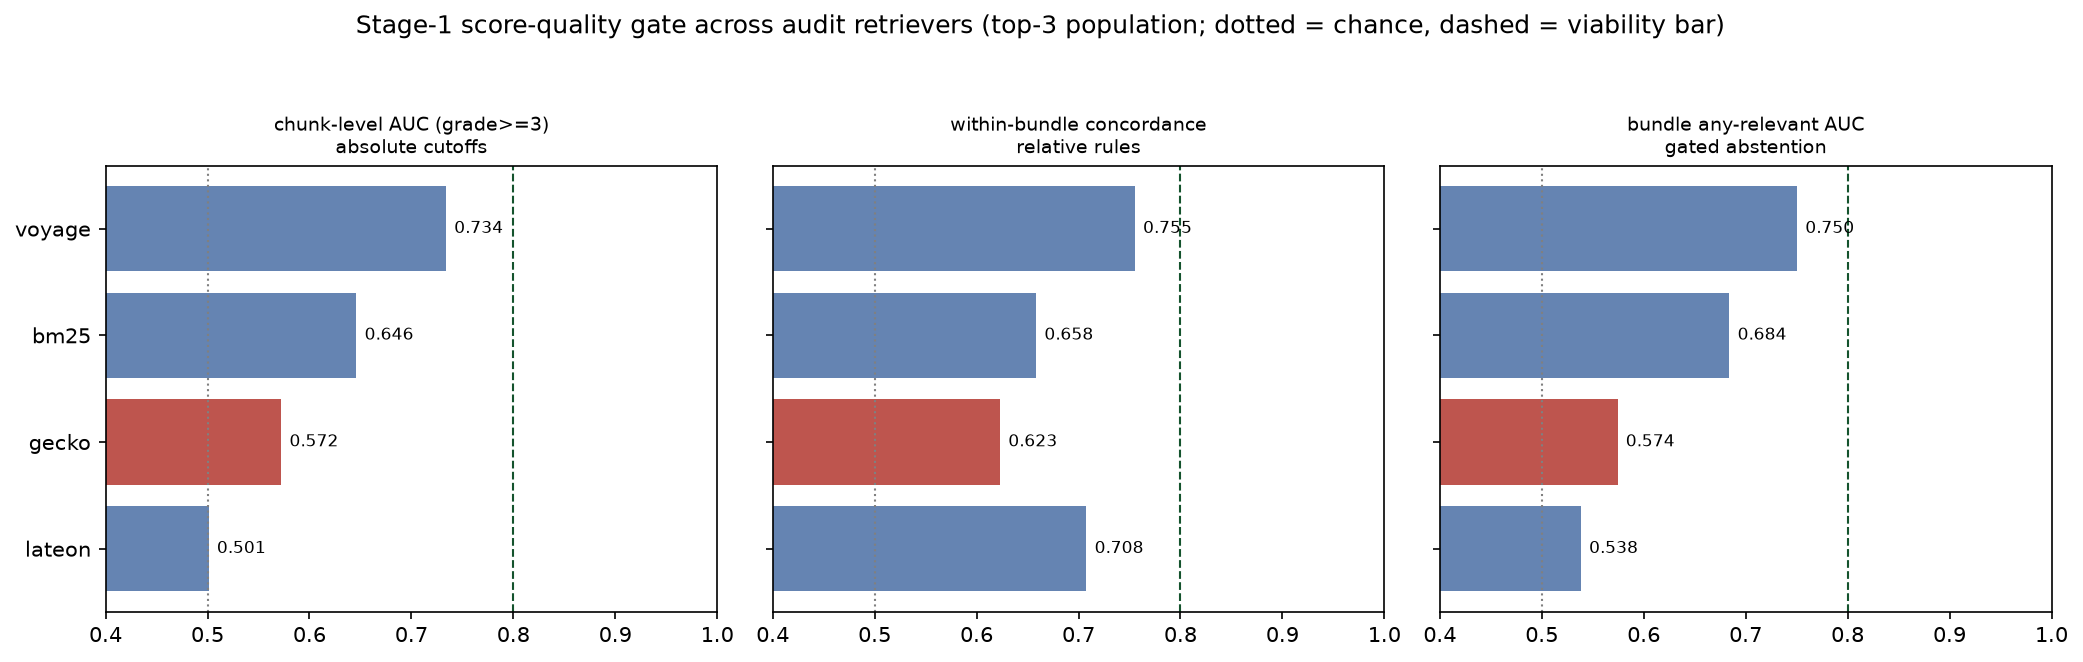
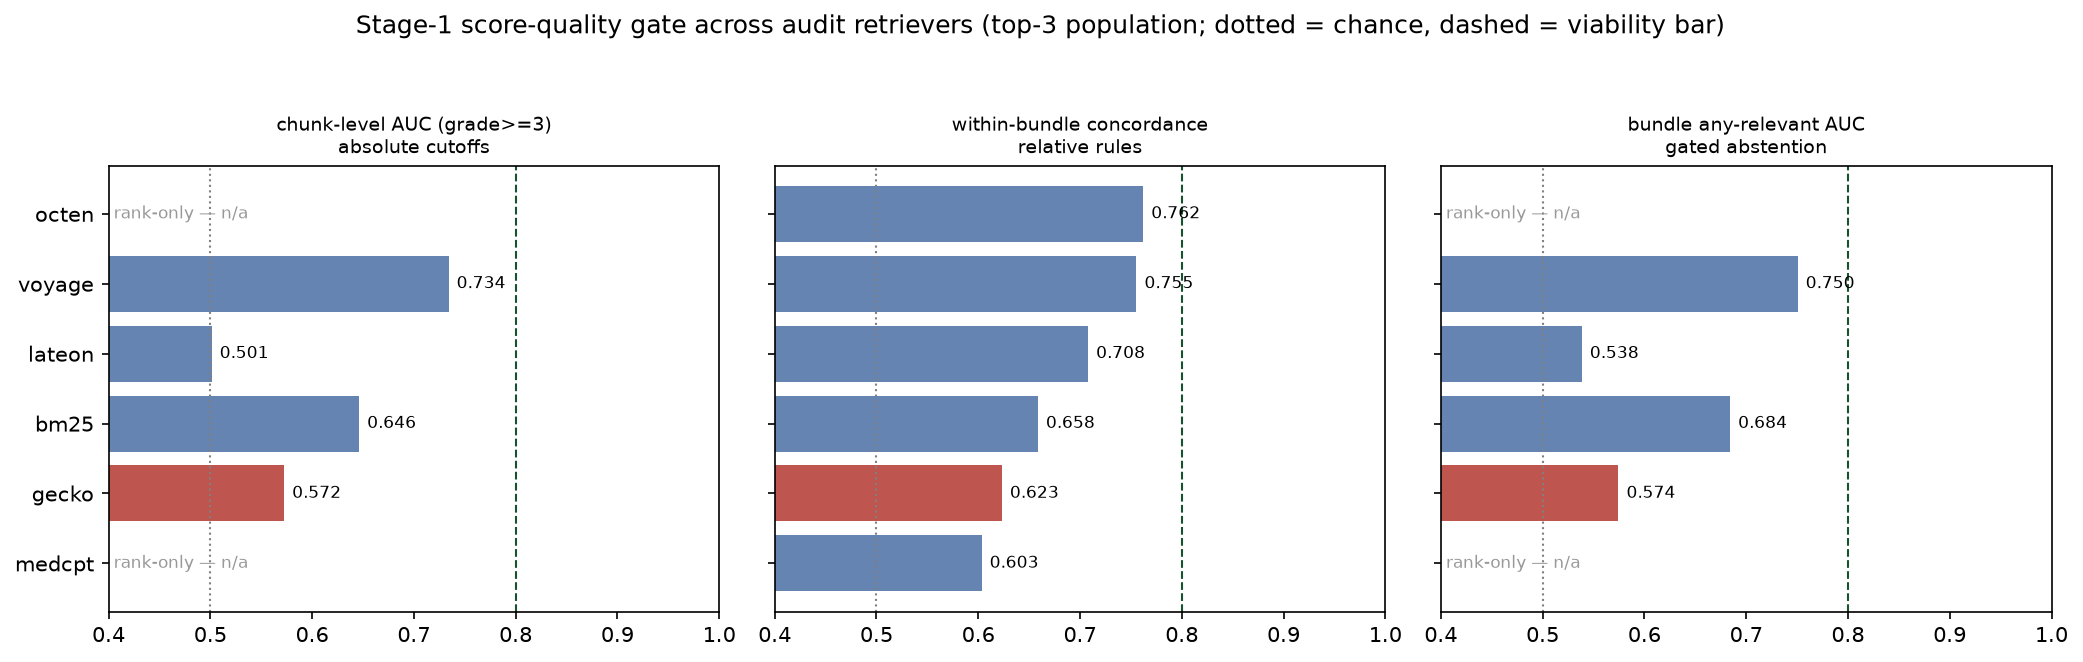
results(r1): all six retrievers in the gate — concordance is rank-computable, so medcpt + octen join
Within a bundle, rank order is score order, so the concordance statistic
needs no published scores: octen (0.762, best of all six) and medcpt
(0.603, worst) now appear; their two pooled score AUCs stay n/a. octen's
0.762 is the only value touching the 0.80 bar. medcpt is the inverse of
lateon — weak ranking AND weak concordance — reinforcing that score
quality and ranking quality are independent axes.

diff --git a/configs/config-v0.2.0/reports/r1-threshold/r1-threshold-negative-result-20260612.html b/configs/config-v0.2.0/reports/r1-threshold/r1-threshold-negative-result-20260612.html
@@ -227,11 +227,13 @@ logic must be calibrated on the deployment platform, not the cluster</em>.
 
 <h2>6. Is thresholding dead in general, or just for Gecko?</h2>
 <p>
-The Stage-1 gate costs nothing to run for the other audit retrievers — their
-top-20 scores are in <code>rankings.parquet</code> against the same judgments
-(medcpt and octen published rank-only data, so their score gates are not
-computable; Stage 2 is not computable for any of them, as no end-to-end runs
-used their retrievals).
+The Stage-1 gate costs nothing to run for the other five audit retrievers —
+their top-20 rankings are in <code>rankings.parquet</code> against the same
+judgments. medcpt and octen published rank-only data, so the two pooled
+score statistics are not computable for them; the within-bundle concordance
+survives, because inside a bundle rank order <em>is</em> score order. Stage 2
+is not computable for any of them, as no end-to-end runs used their
+retrievals.
 </p>
 <figure>
   <img src="fig_retriever_gate_comparison.png"
@@ -243,37 +245,46 @@ used their retrievals).
   <tr><th>Retriever</th><th class="num">chunk AUC ≥3</th>
       <th class="num">concordance</th><th class="num">bundle AUC</th>
       <th class="num">P@3</th><th>Note</th></tr>
+  <tr><td>octen-8B</td><td class="num">—</td><td class="num">0.762</td>
+      <td class="num">—</td><td class="num">0.804</td>
+      <td>cluster-only; rank-only data (pooled stats n/a)</td></tr>
   <tr><td>voyage-4-large</td><td class="num">0.734</td><td class="num">0.755</td>
       <td class="num">0.750</td><td class="num">0.867</td>
       <td>API-only reference ceiling</td></tr>
+  <tr><td>lateon</td><td class="num">0.501</td><td class="num">0.708</td>
+      <td class="num">0.538</td><td class="num">0.738</td>
+      <td>scores incomparable across queries, decent within-bundle</td></tr>
   <tr><td>bm25</td><td class="num">0.646</td><td class="num">0.658</td>
       <td class="num">0.684</td><td class="num">0.417</td>
       <td>on-device feasible (SQLite FTS5, R2a)</td></tr>
   <tr><td><strong>gecko (deployed)</strong></td><td class="num fail">0.572</td>
       <td class="num fail">0.623</td><td class="num fail">0.574</td>
-      <td class="num">0.477</td><td>worst score quality of the four</td></tr>
-  <tr><td>lateon</td><td class="num">0.501</td><td class="num">0.708</td>
-      <td class="num">0.538</td><td class="num">0.738</td>
-      <td>scores incomparable across queries, decent within-bundle</td></tr>
+      <td class="num">0.477</td><td>second-worst concordance, worst pooled scores</td></tr>
+  <tr><td>medcpt</td><td class="num">—</td><td class="num">0.603</td>
+      <td class="num">—</td><td class="num">0.335</td>
+      <td>rank-only data (pooled stats n/a)</td></tr>
 </table>
 <p>Three readings:</p>
 <ul>
-  <li><strong>The failure is Gecko-specific in degree, but no retriever passes.</strong>
-      Even voyage — the quality ceiling — sits at 0.73–0.76 on all three
-      statistics, below the 0.80 viability bar. Score-based filtering would be
-      <em>marginally</em> workable on voyage-grade scores and is hopeless on
-      Gecko’s; nothing tested clears the bar comfortably.</li>
+  <li><strong>No retriever passes the bar.</strong> Even voyage — the API-only
+      quality ceiling — sits at 0.73–0.76 on all three score statistics, below
+      the 0.80 viability bar, and octen (the strongest cluster-feasible ranker,
+      concordance 0.762) is the only value that touches it. Score-based
+      filtering is at best marginal even with the best retrievers tested, and
+      hopeless on Gecko’s scores. Thresholding should not be assumed to revive
+      automatically under R2.</li>
   <li><strong>Score quality is a separate axis from ranking quality.</strong>
-      lateon ranks well (P@3 = 0.738) yet its pooled chunk AUC is 0.501 — its
-      score magnitudes carry zero cross-query meaning, while its within-bundle
-      ordering (0.708) beats Gecko’s. A bake-off that only checked P@k would
-      never see this. This validates measuring both gate statistics per R2
-      candidate.</li>
-  <li><strong>BM25’s scores beat Gecko’s on every statistic</strong> — notably
-      bundle-level junk detection (0.684 vs 0.574) — while being deployable
-      on-device. This strengthens the R2a hybrid case: lexical scores add not
-      just complementary recall but more meaningful confidence signal than the
-      embedding provides.</li>
+      lateon ranks well (P@3 = 0.738, HR@3 = 0.971) yet its pooled chunk AUC is
+      0.501 — its score <em>magnitudes</em> carry zero cross-query meaning,
+      while its within-bundle ordering (0.708) is strong. medcpt is the inverse
+      cautionary case: weak ranking (P@3 = 0.335) and the weakest concordance
+      (0.603) of all six. A bake-off that only checked P@k would see none of
+      this — which is exactly why both gate statistics belong in the R2 screen.</li>
+  <li><strong>BM25’s scores beat Gecko’s on every computable statistic</strong>
+      — notably bundle-level junk detection (0.684 vs 0.574) — while being
+      deployable on-device. This strengthens the R2a hybrid case: lexical scores
+      add not just complementary recall but a more meaningful confidence signal
+      than the embedding provides.</li>
 </ul>
 
 <h2>7. Decision</h2>

diff --git a/retrieval_eval/compare_retriever_gates.py b/retrieval_eval/compare_retriever_gates.py
@@ -108,11 +108,12 @@ def main():
     skipped = {}
     for retriever in sorted(rk["retriever"].unique()):
         sub = rk[rk["retriever"] == retriever]
-        if sub["score"].isna().all():
-            skipped[retriever] = ("rank-only in rankings.parquet (no scores "
-                                  "published) — score gate not computable")
-            print(f"{retriever:8s}  SKIPPED: rank-only, no scores", flush=True)
-            continue
+        rank_only = sub["score"].isna().all()
+        if rank_only:
+            # Within-bundle rank order IS score order, so the concordance
+            # statistic survives without published scores; the two pooled
+            # (cross-query) AUCs genuinely need magnitudes and do not.
+            sub = sub.assign(score=-sub["rank"].astype(float))
         rows, missing = [], 0
         for r in sub.itertuples():
             g = grade.get((r.query_id, r.chunk_id))
@@ -122,14 +123,23 @@ def main():
             rows.append({"query_id": r.query_id, "rank": int(r.rank),
                          "score": float(r.score), "grade": int(g)})
         stats = gate_stats(rows)
+        if rank_only:
+            # Cross-query statistics computed from negated ranks are not score
+            # statistics — null them; only the within-bundle concordance and
+            # the base rates survive.
+            stats["chunk_auc_grade3"] = None
+            stats["chunk_auc_grade5"] = None
+            stats["bundle_any_relevant_auc_top1"] = None
+            stats["rank_only"] = True
         stats["n_unjudged_top20"] = missing
         stats["note"] = RETRIEVER_NOTES.get(retriever, "")
         results[retriever] = stats
-        print(f"{retriever:8s}  AUC3={stats['chunk_auc_grade3']:.3f}  "
-              f"conc={stats['within_bundle_concordance']:.3f}  "
-              f"bundleAUC={stats['bundle_any_relevant_auc_top1']}  "
-              f"P@3={stats['p_at_3']:.3f}  HR@3={stats['hr_at_3']:.3f}",
-              flush=True)
+        fmt = lambda v: f"{v:.3f}" if v is not None else "  —  "
+        print(f"{retriever:8s}  AUC3={fmt(stats['chunk_auc_grade3'])}  "
+              f"conc={fmt(stats['within_bundle_concordance'])}  "
+              f"bundleAUC={fmt(stats['bundle_any_relevant_auc_top1'])}  "
+              f"P@3={stats['p_at_3']:.3f}  HR@3={stats['hr_at_3']:.3f}"
+              + ("  [rank-only]" if rank_only else ""), flush=True)
 
     out = {
         "created_at_utc": datetime.now(timezone.utc).strftime("%Y-%m-%dT%H:%M:%SZ"),
@@ -148,7 +158,7 @@ def main():
     matplotlib.use("Agg")
     import matplotlib.pyplot as plt
 
-    names = sorted(results, key=lambda n: -results[n]["chunk_auc_grade3"])
+    names = sorted(results, key=lambda n: -(results[n]["within_bundle_concordance"] or 0))
     stats_to_plot = [
         ("chunk_auc_grade3", "chunk-level AUC (grade>=3)\nabsolute cutoffs"),
         ("within_bundle_concordance", "within-bundle concordance\nrelative rules"),
@@ -156,9 +166,15 @@ def main():
     ]
     fig, axes = plt.subplots(1, 3, figsize=(14, 4.2), sharey=True)
     for ax, (key, title) in zip(axes, stats_to_plot):
-        vals = [results[n][key] for n in names]
         colors = ["#b3372f" if n == "gecko" else "#4a6fa5" for n in names]
-        ax.barh(range(len(names)), vals, color=colors, alpha=0.85)
+        for i, n in enumerate(names):
+            v = results[n][key]
+            if v is None:
+                ax.text(0.405, i, "rank-only — n/a", va="center", fontsize=8,
+                        color="#999")
+            else:
+                ax.barh(i, v, color=colors[i], alpha=0.85)
+                ax.text(v + 0.008, i, f"{v:.3f}", va="center", fontsize=8)
         ax.set_yticks(range(len(names)))
         ax.set_yticklabels(names)
         ax.invert_yaxis()
@@ -166,8 +182,6 @@ def main():
         ax.axvline(0.8, ls="--", color="#14532d", lw=1)
         ax.set_xlim(0.4, 1.0)
         ax.set_title(title, fontsize=9)
-        for i, v in enumerate(vals):
-            ax.text(v + 0.008, i, f"{v:.3f}", va="center", fontsize=8)
     fig.suptitle("Stage-1 score-quality gate across audit retrievers "
                  "(top-3 population; dotted = chance, dashed = viability bar)",
                  y=1.04)
